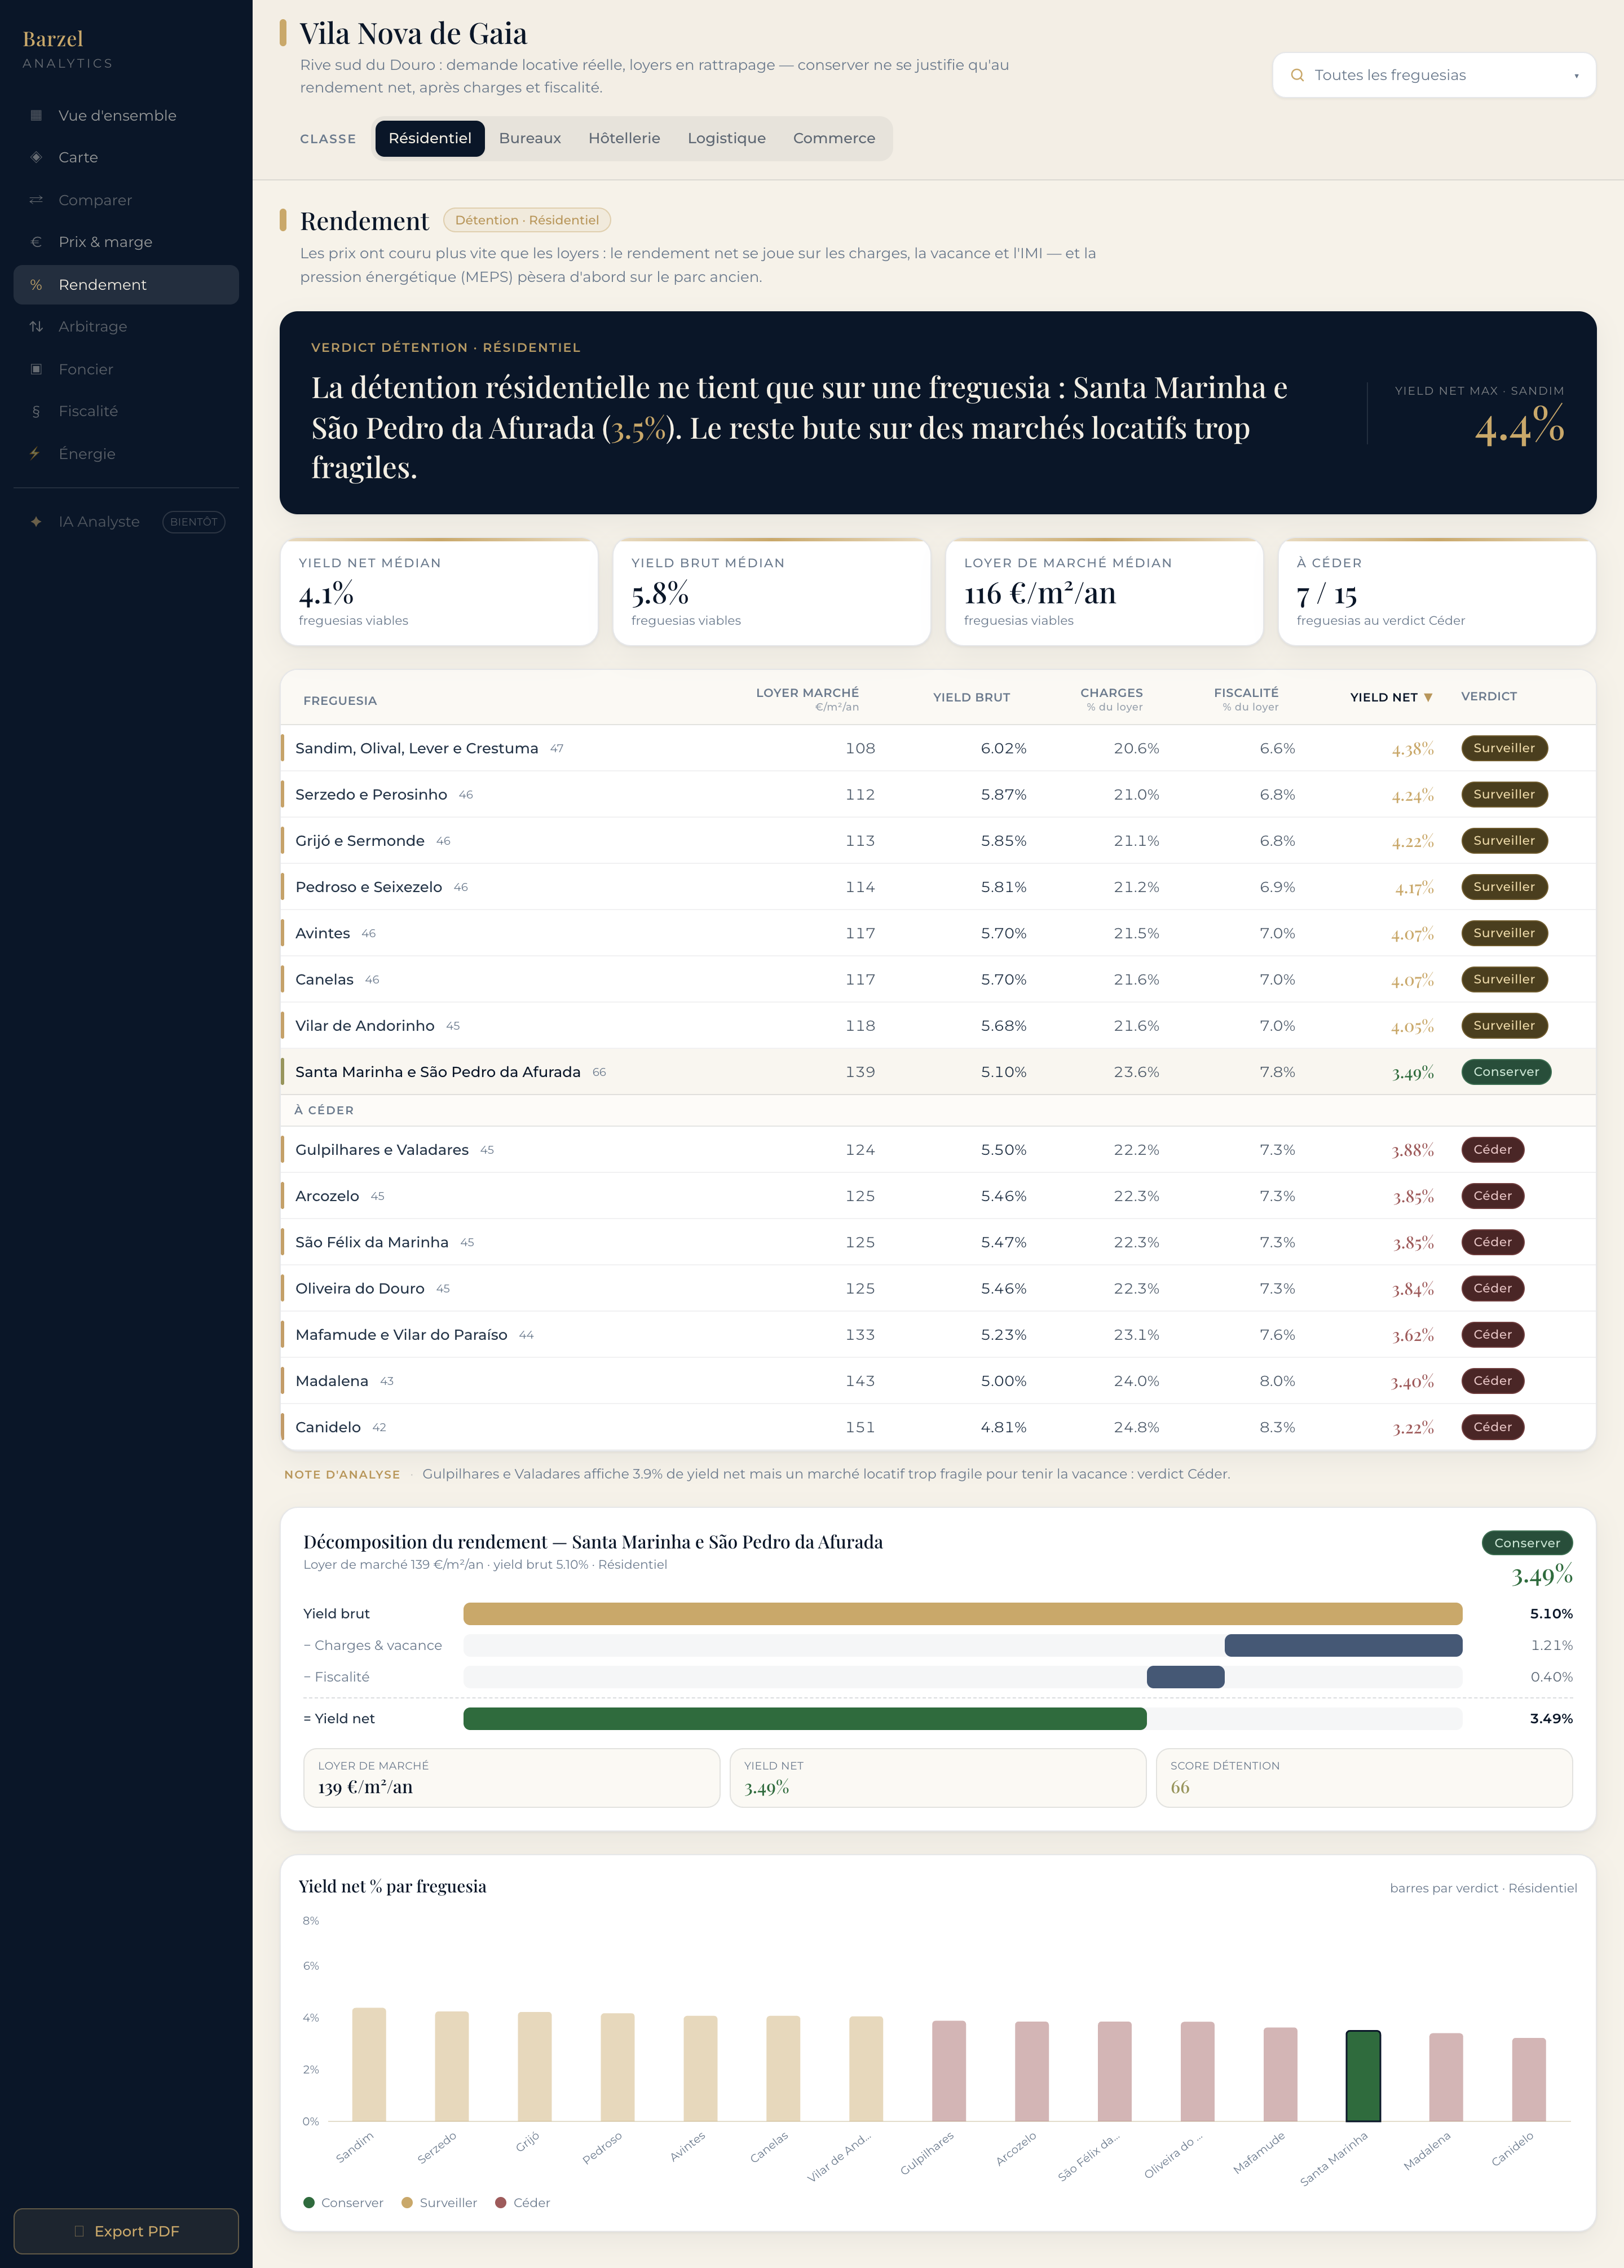
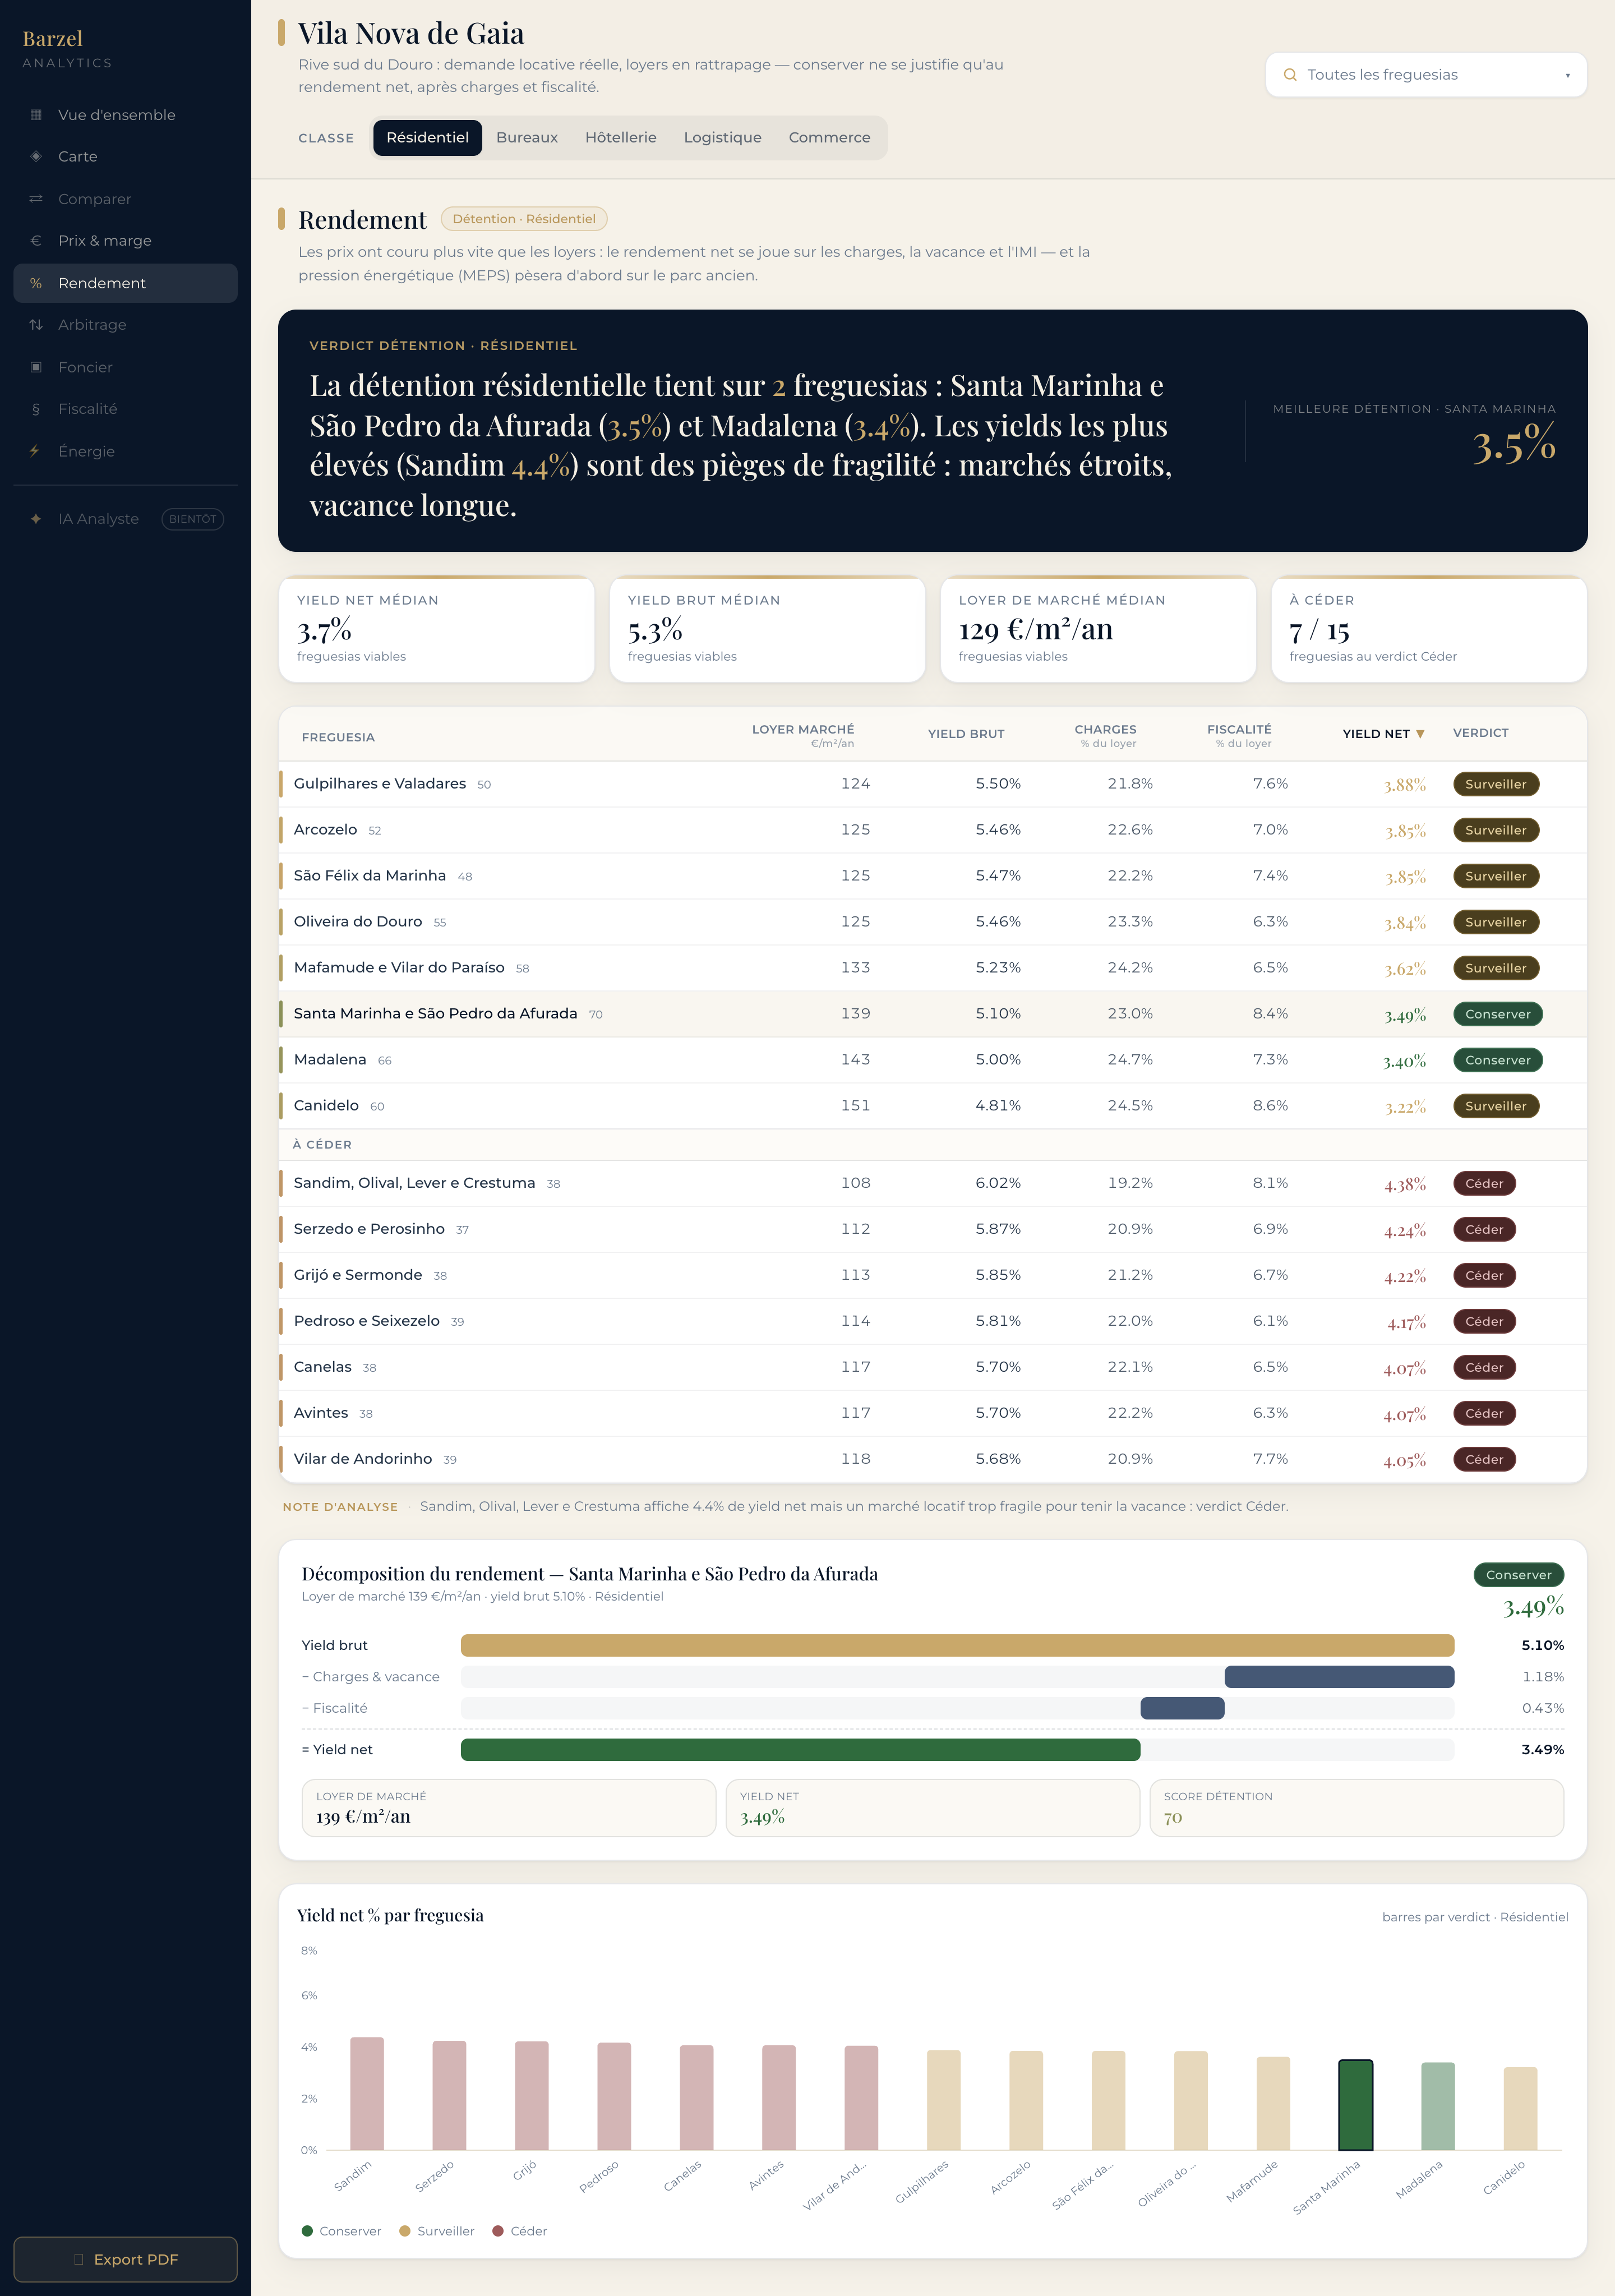
Recalibrage Détention : profondeur de marché locatif contre piège du yield
- Nouveau pilier profondeur_locative (demande locative 0,50 / parc 0,30 /
  rotation 0,20, percentiles socle) ; poids détention rn 0,30→0,15,
  profondeur 0,30, seuils de verdict inchangés (65/45). Yields et loyers
  strictement inchangés.
- Connectivité curée sur la ceinture urbaine/littorale uniquement (rurales
  au défaut pays) : landbank municipio et modes dominants intacts.
- Résidentiel cible : Conserver Santa Marinha + Madalena ; 6 urbaines
  Surveiller ; les 7 rurales Céder malgré leurs yields plus élevés.
  Municipio Céder→Surveiller (carte Vue d'ensemble assumée).
- Split charges/fiscalité par freguesia (±1,5 pt du loyer, somme fixe) :
  colonnes non monotones, brut × (1 − charges − fisc) = net exact.
- Bandeau « Meilleure détention · <freguesia> » (fini le max global) ;
  clause signature « pièges de fragilité » quand le yield max est Céder.
- Tests : +3 (groupes cibles, invariant aucune rurale Conserver, identité
  breakdown) ; 13/13. Captures régénérées.

diff --git a/frontend/lib/insights.ts b/frontend/lib/insights.ts
@@ -225,6 +225,7 @@ export function priceMarginInsight(rows: PmRow[], assetClass: string): string {
 // priceMarginInsight.
 const DET_CLAUSE: Record<string, string> = {
   rendement_net: "des loyers trop bas face aux prix",
+  profondeur_locative: "des marchés locatifs trop étroits",
   resilience: "des marchés locatifs trop fragiles",
   fiscalite: "une fiscalité qui érode le loyer",
   risque_energie: "un risque énergétique qui pèse sur le parc",
@@ -245,20 +246,32 @@ export function detentionInsight(rows: RdRow[], assetClass: string): string {
     .sort((a, b) => b.yieldNet - a.yieldNet);
   const n = keep.length;
 
+  // Signature message of the page: when the highest facial yield sits on a Céder
+  // freguesia, name the inverted-yield trap explicitly.
+  const maxY = rows.length ? rows.reduce((a, b) => (b.yieldNet > a.yieldNet ? b : a)) : null;
+  const trap =
+    maxY && verdictTone("detention", maxY.verdict) === "low"
+      ? ` Les yields les plus élevés (${maxY.short} ${maxY.yieldNet.toFixed(1)}%) sont des pièges de fragilité : marchés étroits, vacance longue.`
+      : "";
+
   if (n === 0) {
+    if (trap) return `Aucune freguesia ne justifie de conserver${classSuffix(assetClass)} ce cycle.${trap}`;
     const best = [...rows].sort((a, b) => b.yieldNet - a.yieldNet)[0];
     const tail = best ? ` : meilleur yield net ${best.yieldNet.toFixed(1)}% à ${best.short}` : "";
     return `Aucune freguesia ne justifie de conserver${classSuffix(assetClass)} ce cycle${tail}.`;
   }
-  // Closing clause: the most common weakest pillar across the non-Conserver set.
-  const rest = rows.filter((r) => verdictTone("detention", r.verdict) !== "good");
+  // Closing clause: the yield trap when it applies, else the most common weakest
+  // pillar across the non-Conserver set.
   let why = "";
-  if (rest.length) {
-    const counts = new Map<string, number>();
-    for (const r of rest) if (r.weakest) counts.set(r.weakest, (counts.get(r.weakest) ?? 0) + 1);
-    const top = [...counts.entries()].sort((a, b) => b[1] - a[1])[0];
-    const reason = top ? DET_CLAUSE[top[0]] : undefined;
-    if (reason) why = ` Le reste bute sur ${reason}.`;
+  if (!trap) {
+    const rest = rows.filter((r) => verdictTone("detention", r.verdict) !== "good");
+    if (rest.length) {
+      const counts = new Map<string, number>();
+      for (const r of rest) if (r.weakest) counts.set(r.weakest, (counts.get(r.weakest) ?? 0) + 1);
+      const top = [...counts.entries()].sort((a, b) => b[1] - a[1])[0];
+      const reason = top ? DET_CLAUSE[top[0]] : undefined;
+      if (reason) why = ` Le reste bute sur ${reason}.`;
+    }
   }
   const list = yieldList(keep.slice(0, 3));
   const head =
@@ -267,7 +280,7 @@ export function detentionInsight(rows: RdRow[], assetClass: string): string {
       : n === 2
       ? `La détention ${adj} tient sur 2 freguesias : ${list}.`
       : `La détention ${adj} ne tient que sur une freguesia : ${list}.`;
-  return `${head}${why}`;
+  return `${head}${trap || why}`;
 }
 
 // Why a decent-KPI freguesia still fails: the weakest pillar behind the low verdict.
@@ -278,6 +291,7 @@ const PILLAR_REASON: Record<string, string> = {
   constructibilite: "une constructibilité insuffisante",
   risque_sortie: "un risque de sortie trop élevé",
   // détention
+  profondeur_locative: "un marché locatif trop étroit (parc réduit, rotation lente)",
   resilience: "un marché locatif trop fragile pour tenir la vacance",
   risque_energie: "un risque énergétique (MEPS) trop lourd",
   fiscalite: "une fiscalité de détention pénalisante",

diff --git a/frontend/app/rendement/page.tsx b/frontend/app/rendement/page.tsx
@@ -62,7 +62,14 @@ export default function RendementPage() {
 
   // Conclusion layer: page insight + banner right block + anomaly note.
   const rdLine = useMemo(() => detentionInsight(allRows, cls), [allRows, cls]);
-  const maxRow: RdRow | null = summary.best;
+  // Banner right block: the best-held freguesia (top-score Conserver, else top
+  // viable) — never a global yield max that would contradict the sentence.
+  const bestHold: RdRow | null = useMemo(() => {
+    const keep = allRows.filter((r) => verdictTone("detention", r.verdict) === "good");
+    const pool = keep.length ? keep : allRows.filter((r) => verdictTone("detention", r.verdict) !== "low");
+    if (!pool.length) return null;
+    return pool.reduce((a, b) => (b.total > a.total ? b : a));
+  }, [allRows]);
   const fregScores = useMemo(
     () => (g.detentionCity?.zones ?? []).filter((z) => z.level === "freguesia"),
     [g.detentionCity]
@@ -111,10 +118,10 @@ export default function RendementPage() {
             eyebrow={`Verdict détention · ${classLabel(cls)}`}
             sentence={rdLine}
             right={
-              maxRow ? (
+              bestHold ? (
                 <div className="text-right">
-                  <div className="text-[10px] uppercase tracking-widest text-cream/50">Yield net max · {maxRow.short}</div>
-                  <div className="font-display text-[40px] leading-none text-gold">{maxRow.yieldNet.toFixed(1)}%</div>
+                  <div className="text-[10px] uppercase tracking-widest text-cream/50">Meilleure détention · {bestHold.short}</div>
+                  <div className="font-display text-[40px] leading-none text-gold">{bestHold.yieldNet.toFixed(1)}%</div>
                 </div>
               ) : undefined
             }

diff --git a/backend/services/mode_scoring.py b/backend/services/mode_scoring.py
@@ -20,6 +20,7 @@ Contract honoured:
 
 from __future__ import annotations
 
+import hashlib
 import json
 import logging
 import statistics
@@ -435,9 +436,24 @@ def _best_use_value(st: State, z: dict) -> tuple[float | None, str | None]:
     return round(best_val), best_cls
 
 
+def _res_market_rent(st: State, z: dict) -> float | None:
+    """Residential market rent €/m²/year (price × zone-adjusted gross yield) —
+    the depth proxy for rental demand, whatever the asset class studied."""
+    gross = _p(st, "city_yields", z["city"], "residential") \
+        or _p(st, "yields_prime_pct", z["country"], "residential")
+    price = _class_price(st, z, "residential")
+    if gross is None or not price:
+        return None
+    ref = _city_price_median(st, z["city"], "residential")
+    if ref:
+        gross = gross * (ref / price) ** 0.4
+    return price * gross / 100.0
+
+
 def _build_socle(st: State) -> dict[str, list]:
     metrics = {"constructibilite": [], "connectivite": [], "momentum": [],
-               "absorption_speed": [], "resilience": [], "best_use_value": []}
+               "absorption_speed": [], "resilience": [], "best_use_value": [],
+               "demande_locative": [], "liquidite": []}
     for zid, z in st.zones.items():
         c, _ = _zone_attr(st, z, "constructibilite")
         if c is not None:
@@ -457,6 +473,12 @@ def _build_socle(st: State) -> dict[str, list]:
         bv, _ = _best_use_value(st, z)
         if bv:
             metrics["best_use_value"].append(float(bv))
+        rent = _res_market_rent(st, z)
+        if rent:
+            metrics["demande_locative"].append(rent)
+        n = z["residential"].get("n_transactions")
+        if n:
+            metrics["liquidite"].append(float(n))
     return {k: sorted(v) for k, v in metrics.items() if v}
 
 
@@ -748,6 +770,43 @@ def _risque_sortie(st: State, z: dict) -> Pillar:
 # DETENTION pillars                                                           #
 # --------------------------------------------------------------------------- #
 
+def _split_jitter_pct(zone_id: str) -> float:
+    """Deterministic per-zone redistribution (±1.5 pts of rent) between the
+    charges and fiscalité shares of the yield stack — older condominiums carry
+    heavier charges, effective IMI varies with taxable value vs market rent.
+    The SUM charges+fiscalité is untouched, so gross and net yields never move."""
+    h = int(hashlib.md5(zone_id.encode("utf-8")).hexdigest(), 16)
+    return ((h % 3001) - 1500) / 1000.0
+
+
+def _det_profondeur(st: State, z: dict) -> Pillar:
+    """Depth of the rental market: rental demand (market rent level), park size /
+    liquidity (transactions), rotation (DOM). An institution holds where the
+    letting market is deep — not where the facial yield is highest."""
+    rent = _res_market_rent(st, z)
+    n = z["residential"].get("n_transactions")
+    months = _absorption_months(st, z["id"])
+    parts: list[tuple[float, float]] = []
+    why = []
+    if rent is not None:
+        parts.append((0.50, _percentile(st, "demande_locative", rent)))
+        why.append(f"loyer de marché ~{rent:.0f} €/m²/an")
+    if n:
+        parts.append((0.30, _percentile(st, "liquidite", float(n))))
+        why.append(f"parc {int(n)} ventes/an")
+    if months:
+        parts.append((0.20, _percentile(st, "absorption_speed", 1.0 / months)))
+        why.append(f"rotation ~{months:.1f} mois")
+    if not parts:
+        return _np("profondeur_locative", "ni loyer, ni parc, ni rotation pour estimer la profondeur")
+    wsum = sum(w for w, _ in parts)
+    sub = sum(w * v for w, v in parts) / wsum
+    return Pillar("profondeur_locative", sub, round(sub), "/100",
+                  f"profondeur {sub:.0f}",
+                  "profondeur du marché locatif: " + ", ".join(why) + " (percentile socle)",
+                  DERIVE)
+
+
 def _net_yield_pct(st: State, z: dict, cls: str) -> tuple[float | None, str, str, dict | None]:
     country = _country(z)
     if cls != "residential":
@@ -767,6 +826,12 @@ def _net_yield_pct(st: State, z: dict, cls: str) -> tuple[float | None, str, str
     charges = _p(st, "charges_pct", country, "detention", default=1.0)
     vac = _p(st, "charges_pct", country, "vacance", default=5.0)
     net = gross - det_tax - charges - gross * vac / 100.0
+    # Per-freguesia split of the stack between charges and fiscalité (±1.5 pts of
+    # rent, deterministic): effective IMI and condo charges vary locally, their
+    # sum does not — gross and net are strictly unchanged.
+    delta = _split_jitter_pct(z["id"])
+    det_tax_eff = det_tax + delta * gross / 100.0
+    charges_eff = charges - delta * gross / 100.0
     # Inherit lowest confidence of the params consumed: gross yield + detention tax.
     conf = _derived_conf(_p(st, "_yields_conf", default=RAPPORT),
                          _p(st, "fiscalite", country, "det_conf", default=OFFICIEL))
@@ -774,15 +839,15 @@ def _net_yield_pct(st: State, z: dict, cls: str) -> tuple[float | None, str, str
     # charges_pct_loyer folds the vacancy loss in, so that
     # brut × (1 − charges_pct_loyer − fiscalite_pct_loyer) = net exactly.
     rent = price * gross / 100.0 if price else None
-    charges_total = charges + gross * vac / 100.0
+    charges_total = charges_eff + gross * vac / 100.0
     breakdown = {
         "loyer_marche_eur_m2_an": round(rent) if rent is not None else None,
         "yield_brut_pct": round(gross, 2),
         "charges_pct_loyer": round(charges_total / gross * 100.0, 1),
-        "fiscalite_pct_loyer": round(det_tax / gross * 100.0, 1),
+        "fiscalite_pct_loyer": round(det_tax_eff / gross * 100.0, 1),
         "yield_net_pct": round(net, 2),
     }
-    return net, f"brut {gross:.2f}% − fisc {det_tax:.2f} − charges {charges:.2f} − vacance {vac:.0f}%", conf, breakdown
+    return net, f"brut {gross:.2f}% − fisc {det_tax_eff:.2f} − charges {charges_eff:.2f} − vacance {vac:.0f}%", conf, breakdown
 
 
 def _det_rendement(st: State, z: dict, cls: str) -> Pillar:
@@ -993,8 +1058,8 @@ _PILLAR_FUNCS = {
         _promo_marge(st, z, cls, a), _promo_absorption(st, z), _promo_momentum(st, z),
         _promo_constructibilite(st, z), _risque_sortie(st, z)],
     "detention": lambda st, z, cls, a: [
-        _det_rendement(st, z, cls), _det_resilience(st, z), _det_energie(st, z),
-        _det_fiscalite(st, z), _portage(st, z)],
+        _det_rendement(st, z, cls), _det_profondeur(st, z), _det_resilience(st, z),
+        _det_energie(st, z), _det_fiscalite(st, z), _portage(st, z)],
     "arbitrage": lambda st, z, cls, a: [
         _arb_spread(st, z, cls, a), _arb_appetit(st, cls), _arb_momentum_cycle(st, z),
         _arb_frictions(st, z), _cout_opportunite(st, z)],

diff --git a/backend/tests/test_mode_scoring.py b/backend/tests/test_mode_scoring.py
@@ -104,6 +104,45 @@ def test_promotion_city_verdicts_respect_margin():
     assert seen_neg and seen_thin  # current Gaia calibration exercises both branches
 
 
+GAIA_RURAL = ["sandim,olival,leverecrestuma", "serzedoeperosinho", "grijoesermonde",
+              "pedrosoeseixezelo", "avintes", "canelas", "vilardeandorinho"]
+
+
+def test_detention_residential_recalibrated_groups():
+    # Depth-weighted detention: the urban/littoral core holds, the rural belt is
+    # let go despite higher facial yields (inverted-yield trap).
+    rows = {r["zone"]: r for r in ms.score_city("gaia", "detention", "residential")
+            if r["level"] == "freguesia"}
+    assert rows[WITNESS]["verdict"] == "Conserver"
+    assert rows["madalena"]["verdict"] == "Conserver"
+    for z in ["mafamudeevilardoparaiso", "canidelo", "oliveiradodouro", "arcozelo",
+              "gulpilharesevaladares", "saofelixdamarinha"]:
+        assert rows[z]["verdict"] == "Surveiller", (z, rows[z]["verdict"])
+    for z in GAIA_RURAL:
+        assert rows[z]["verdict"] == "Ceder", (z, rows[z]["verdict"])
+
+
+def test_detention_no_rural_conserver_residential():
+    # Invariant: a thin rural rental market never rates Conserver, whatever its yield.
+    rows = {r["zone"]: r for r in ms.score_city("gaia", "detention", "residential")
+            if r["level"] == "freguesia"}
+    for z in GAIA_RURAL:
+        assert rows[z]["verdict"] != "Conserver", z
+
+
+def test_detention_breakdown_identity():
+    # The displayed yield stack must reconcile exactly (display rounding aside):
+    # brut × (1 − charges%loyer − fiscalité%loyer) = net, for every zone and class.
+    for cls in ("residential", "office", "hotel", "logistics", "retail"):
+        for r in ms.score_city("gaia", "detention", cls):
+            rend = next((p for p in r["pillars"] if p["pillar"] == "rendement_net"), None)
+            b = rend.get("breakdown") if rend else None
+            if not b:
+                continue
+            ident = b["yield_brut_pct"] * (1 - (b["charges_pct_loyer"] + b["fiscalite_pct_loyer"]) / 100.0)
+            assert abs(ident - b["yield_net_pct"]) < 0.02, (r["zone"], cls, b)
+
+
 def test_unknown_zone_and_mode_raise():
     import pytest
     with pytest.raises(KeyError):

diff --git a/CLAUDE.md b/CLAUDE.md
@@ -425,6 +425,66 @@ Deuxième page de module (mode **détention**, gabarit Prix & marge), question :
    Captures : `shots/rendement_{residentiel,bureaux}.png`
    (script `shots/capture_rendement.js`).
 
+### Recalibrage Détention — piège du yield inversé — **✅ Livré** (2026-07-02)
+Problème : les verdicts suivaient le niveau de yield → le rural battait l'urbain.
+Cible : un institutionnel détient là où le marché locatif est **profond**, pas là
+où le yield facial est haut. **Yields et loyers strictement inchangés** (sous-scores
+`rendement_net` identiques avant/après).
+1. **Nouveau pilier `profondeur_locative`** (`_det_profondeur`) : 0,50 × demande
+   locative (loyer de marché résidentiel `_res_market_rent`, percentile socle
+   `demande_locative`) + 0,30 × parc/liquidité (`n_transactions`, socle `liquidite`)
+   + 0,20 × rotation (1/DOM, socle `absorption_speed` existant). Poids détention :
+   rendement_net 0,30→**0,15**, profondeur **0,30**, résilience 0,25→0,20, énergie
+   0,20, fiscalité 0,15→0,10, portage 0,10→0,05. **Seuils de verdict inchangés**
+   (65/45).
+2. **Connectivité curée — ceinture urbaine/littorale UNIQUEMENT** (params.json
+   zones, conf hypothese) : Madalena 74, Canidelo 63, Mafamude 62, Oliveira 61,
+   Arcozelo 58, Gulpilhares 57, São Félix 56 (+ Santa Marinha 75 existant). Les
+   7 rurales restent au défaut pays (55). ⚠️ Piège évité : une 1re version curait
+   les rurales *sous* le défaut (36-48) → le socle connectivité glissait → landbank
+   municipio 45→47,5 (badge « En attente »→« À phaser » sur /vue-ensemble) **et**
+   détention logistique municipio (54,7) dépassait la promotion (52,8) = bascule de
+   mode dominant. En ne curant qu'au-dessus du défaut, le socle sous 55 ne bouge
+   pas : landbank municipio **44,7 « En attente »** (affiché 45, identique),
+   dominants intacts (logistique : promotion 52,8 > détention 51,8 — serré).
+3. **État cible résidentiel atteint exactement** : Conserver = Santa Marinha 70,0 +
+   Madalena 66,4 ; Surveiller = Canidelo 59,6, Mafamude 57,7, Oliveira 55,1,
+   Arcozelo 52,3, Gulpilhares 49,6, São Félix 47,5 ; **Céder = les 7 rurales
+   37,1-39,2 malgré leurs yields 4,05-4,38 %** (vs 3,22-3,49 % côté Conserver).
+   Marges aux seuils : 6,8 pts (Conserver) et 8,3 pts (Céder). Madalena vs Canidelo
+   se joue sur connectivité 74 vs 63 (rn quasi à égalité).
+4. **Split charges/fiscalité par freguesia** (`_split_jitter_pct`, md5 du zone_id,
+   ±1,5 pt du loyer) : l'IMI effectif et les charges de copro varient localement,
+   leur **somme** est fixe → brut et net strictement inchangés, colonnes non
+   monotones (fini le 20,6→24,8 % linéaire), identité brut × (1 − charges − fisc)
+   = net exacte (écart max 0,013 = arrondi d'affichage, testé < 0,02).
+5. **Frontend** : bloc droit du bandeau → « **Meilleure détention · <freguesia>** »
+   (yield net du Conserver au meilleur score ; repli top viable ; plus jamais un
+   max global contredisant la phrase). `detentionInsight` : **clause piège du
+   yield** — si la freguesia au yield net max n'est pas Conserver : « Les yields
+   les plus élevés (<freguesia> <val>%) sont des pièges de fragilité : marchés
+   étroits, vacance longue. » (remplace la clause générique ; en logistique le
+   yield max est Santa Marinha elle-même → clause générique conservée, c'est
+   exact). `profondeur_locative` ajouté à DET_CLAUSE + PILLAR_REASON.
+6. **Bascules assumées (5 classes, structure 2 Conserver / 6 Surveiller / 7 Céder
+   partout** — profondeur et résilience sont class-indépendantes, seul le niveau
+   rn varie) : municipio **Céder→Surveiller** (~49-52) → carte Détention de
+   /vue-ensemble à **50 Surveiller** (avant 44 Céder) ; bureaux 0→2 Conserver (le
+   cas dégradé disparaît) ; hôtellerie 1→7 Céder ; logistique 0→7 Céder ;
+   Madalena 73,9 / Canidelo 67,3 en landbank → « Prioritaire » (visible sur la
+   Carte seulement). Lisbonne : Parque das Nações détention 69,6 Conserver
+   (cohérent profondeur) ; Bruxelles ixelles/uccle ~42-44 Céder.
+7. **Vérifs** : note d'anomalie cite naturellement **Sandim 4,4 % … verdict Céder**
+   (résidentiel ; bureaux 4,2 %, hôtel 5,1 %) ; tri par défaut = 8 tenues au-dessus
+   du filet « À céder », 7 rurales dessous ; KPI viables recalculés (résidentiel :
+   net 3,7 %, brut 5,3 %, loyer 129 €/m²/an) ; `tsc` OK ; **13 tests** backend OK
+   dont 3 nouveaux (`test_detention_residential_recalibrated_groups`,
+   `test_detention_no_rural_conserver_residential` = invariant demandé,
+   `test_detention_breakdown_identity`) ; zéro régression /prix-marge (7 freguesias
+   30/29/24, KPIs identiques) et /vue-ensemble (seule la carte Détention change,
+   voulu) ; HayaSlider intact ; `_clean` inchangé. Captures régénérées :
+   `shots/rendement_{residentiel,bureaux}.png`.
+
 ### Prochaines pages de mode (gabarit = Prix & marge / Rendement)
 Arbitrage (spread), Foncier (landbank). Réutiliser la structure : KPIs → tableau
 triable → décomposition/piliers → graphe. **Briques génériques prêtes** :